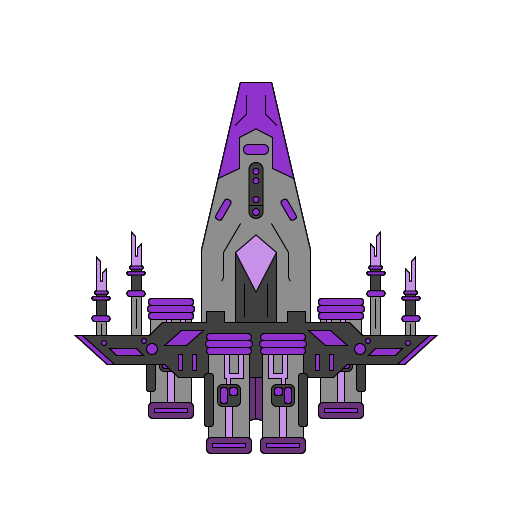
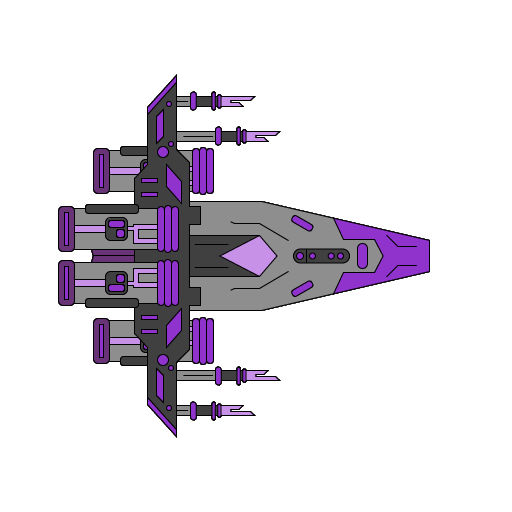
Fixed enemy sprite rotatio/alignment

Changed region(s): [[0.0938, 0.1562, 0.8438, 0.9062]]

diff --git a/Assets/Scripts/Entities/Enemy.cs b/Assets/Scripts/Entities/Enemy.cs
@@ -57,7 +57,6 @@ public class Enemy : PlayableObjects
         transform.rotation = Quaternion.Euler(0, 0, angle);
 
         transform.Translate(Vector2.right * speed * Time.deltaTime);
-        transform.up = target.position - transform.position;  //added so the enemies would face the target
     }
 
     public override void Move(float speed) {
